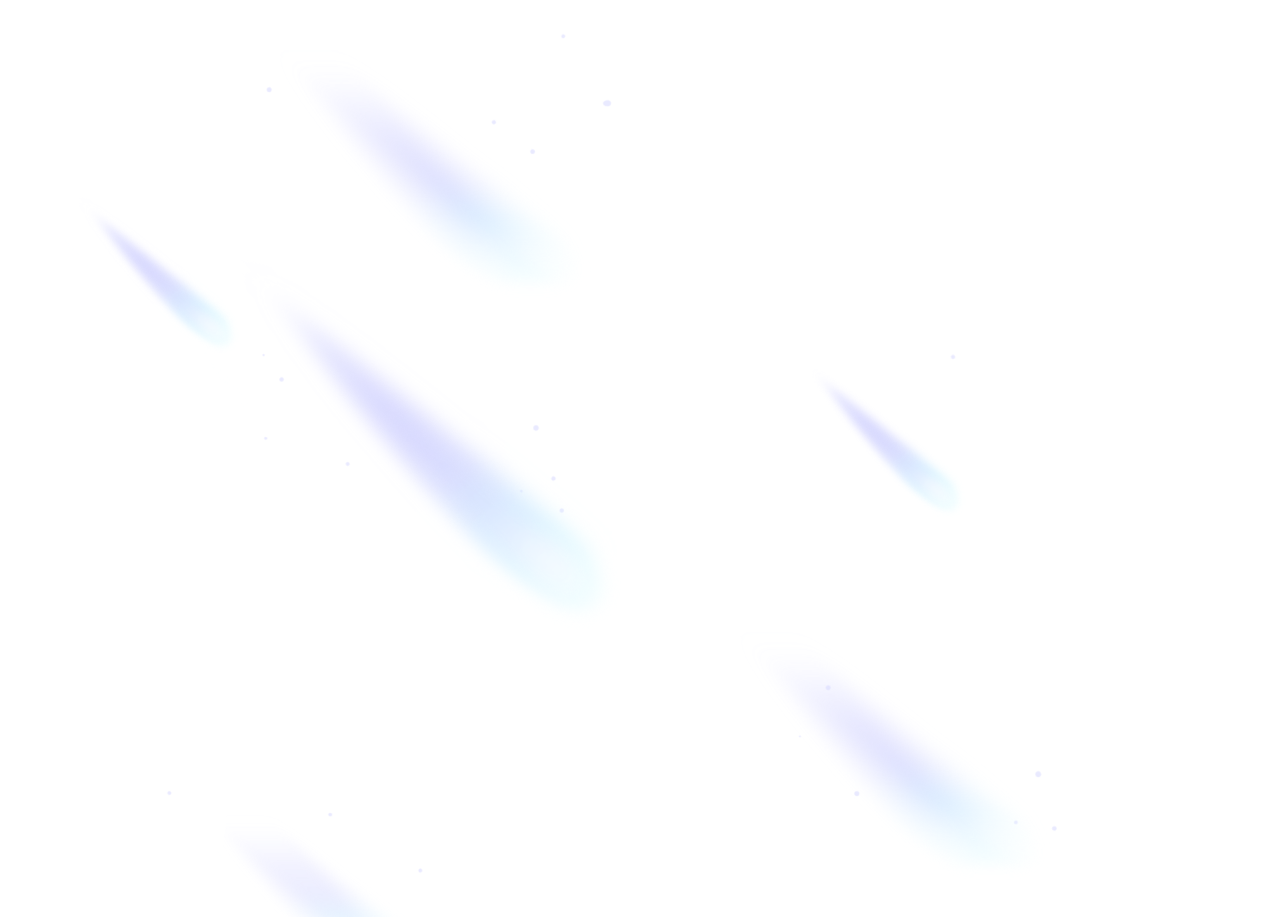
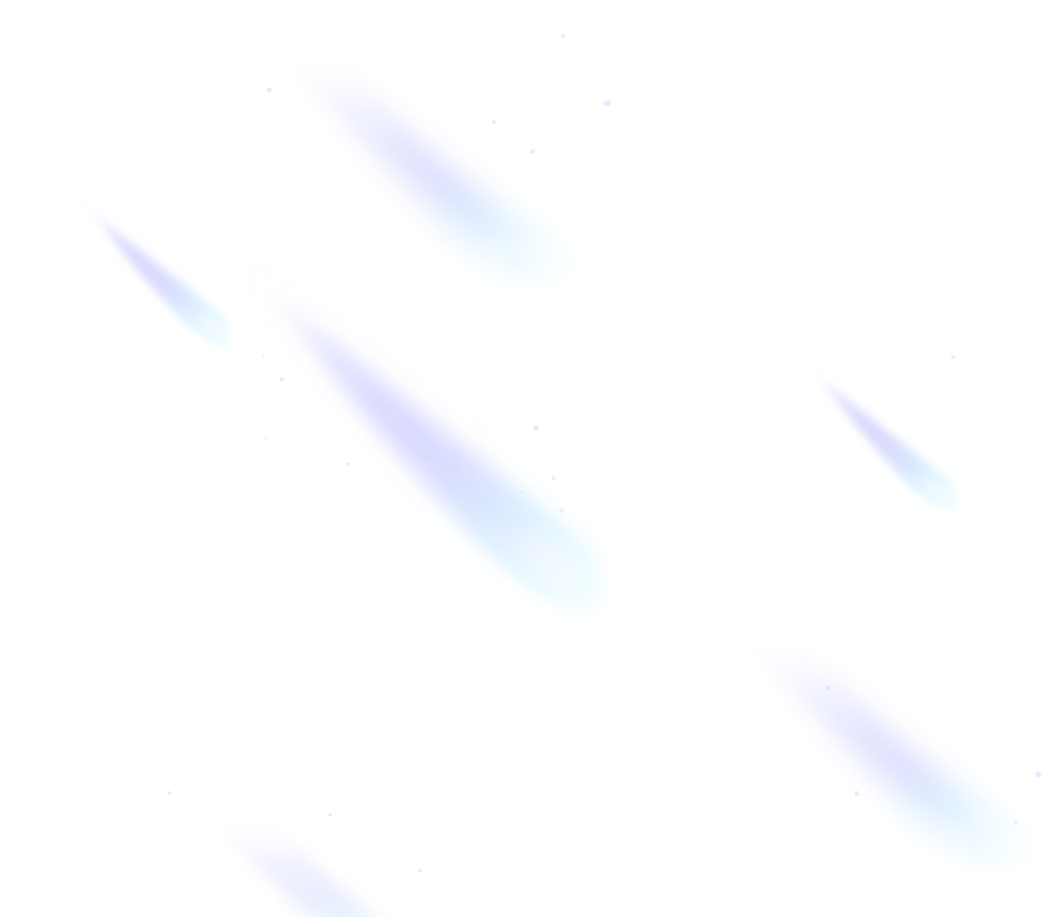
footer modification

diff --git a/frontend/src/components/Footer.js b/frontend/src/components/Footer.js
@@ -103,9 +103,9 @@ function Footer() {
         style={{
           position: 'absolute',
           bottom: '0',
-          left: '56%',  // Centered horizontally
-          width: '100%',
-          height: '20%',
+          left: '50%',  // Centered horizontally
+          width: '100vw',
+          height: '70vh',
           transform: 'translateX(-50%)',  // Ensures perfect centering
           backgroundImage: `url(${shootingstar})`,
           backgroundSize: 'contain',  // Ensures the entire image fits while maintaining aspect ratio
@@ -113,7 +113,9 @@ function Footer() {
           backgroundPosition: 'center center', 
           zIndex: -1,
         }}
-      />
+        >
+      </div>
+    
     </div>
 
   );
